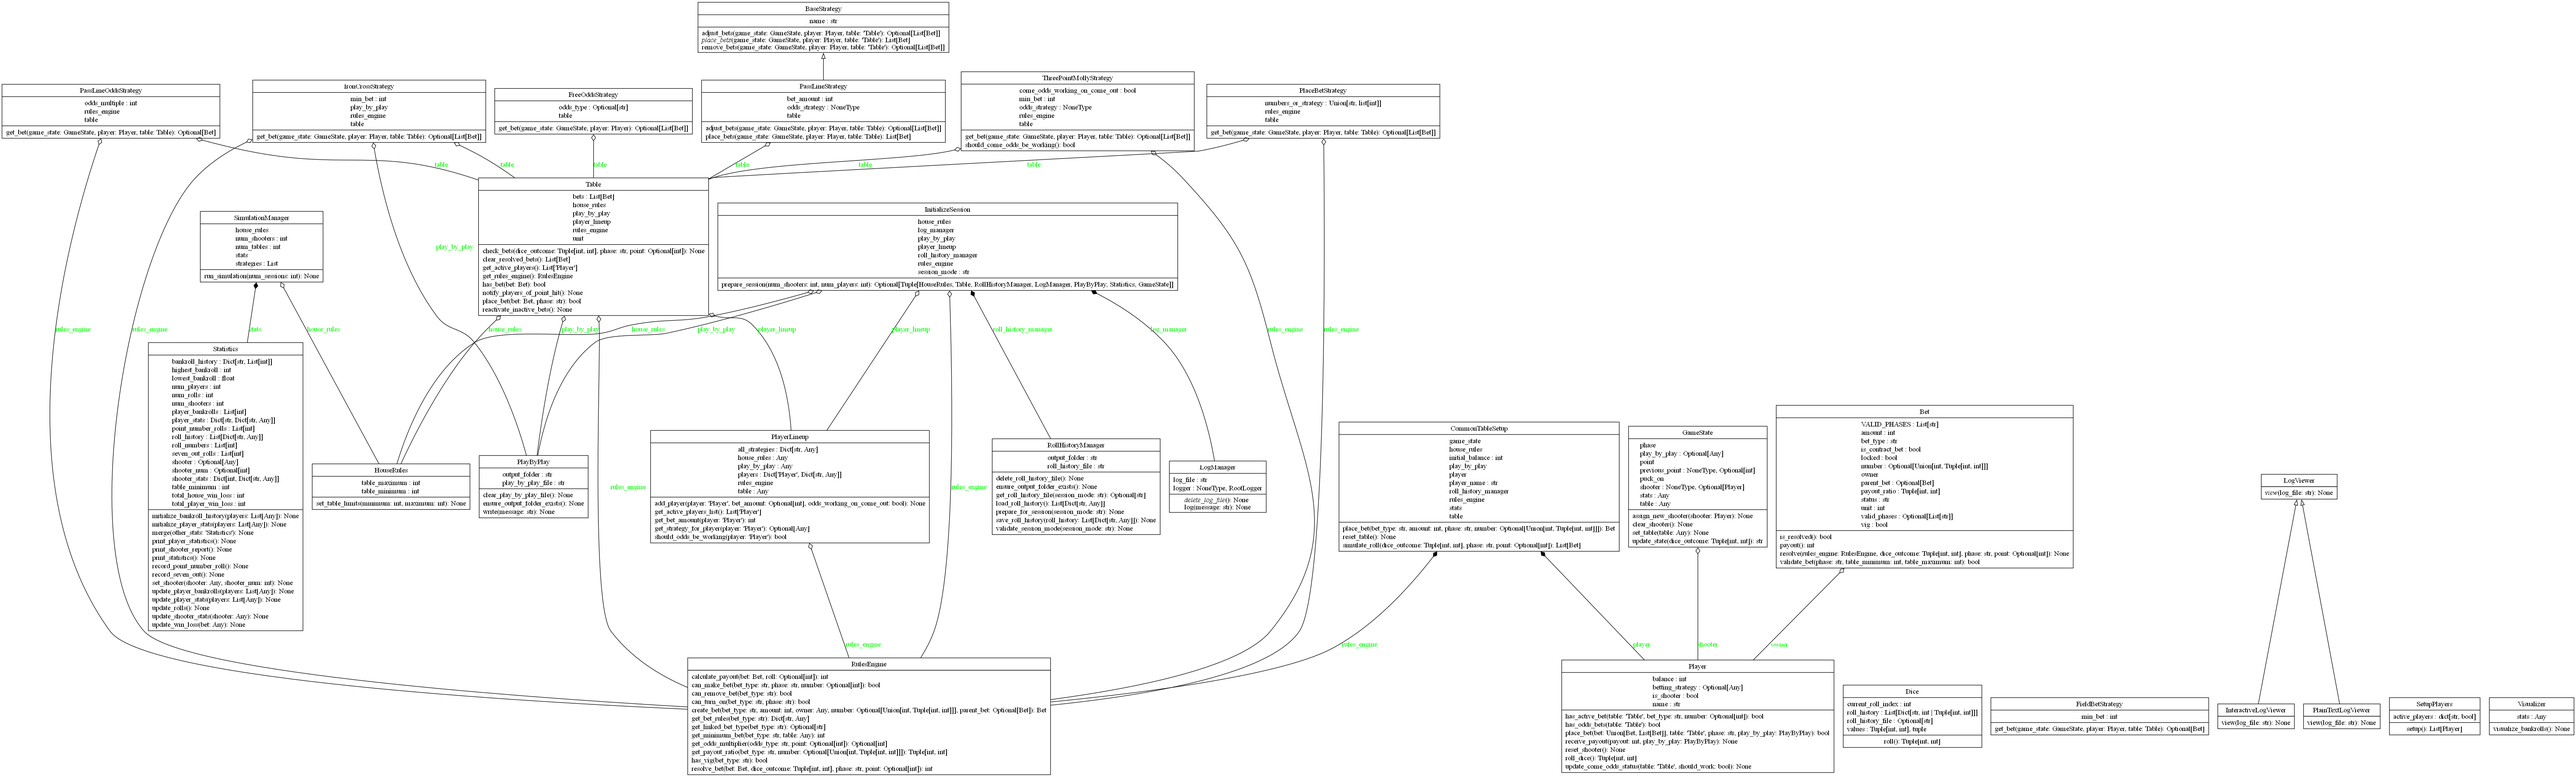
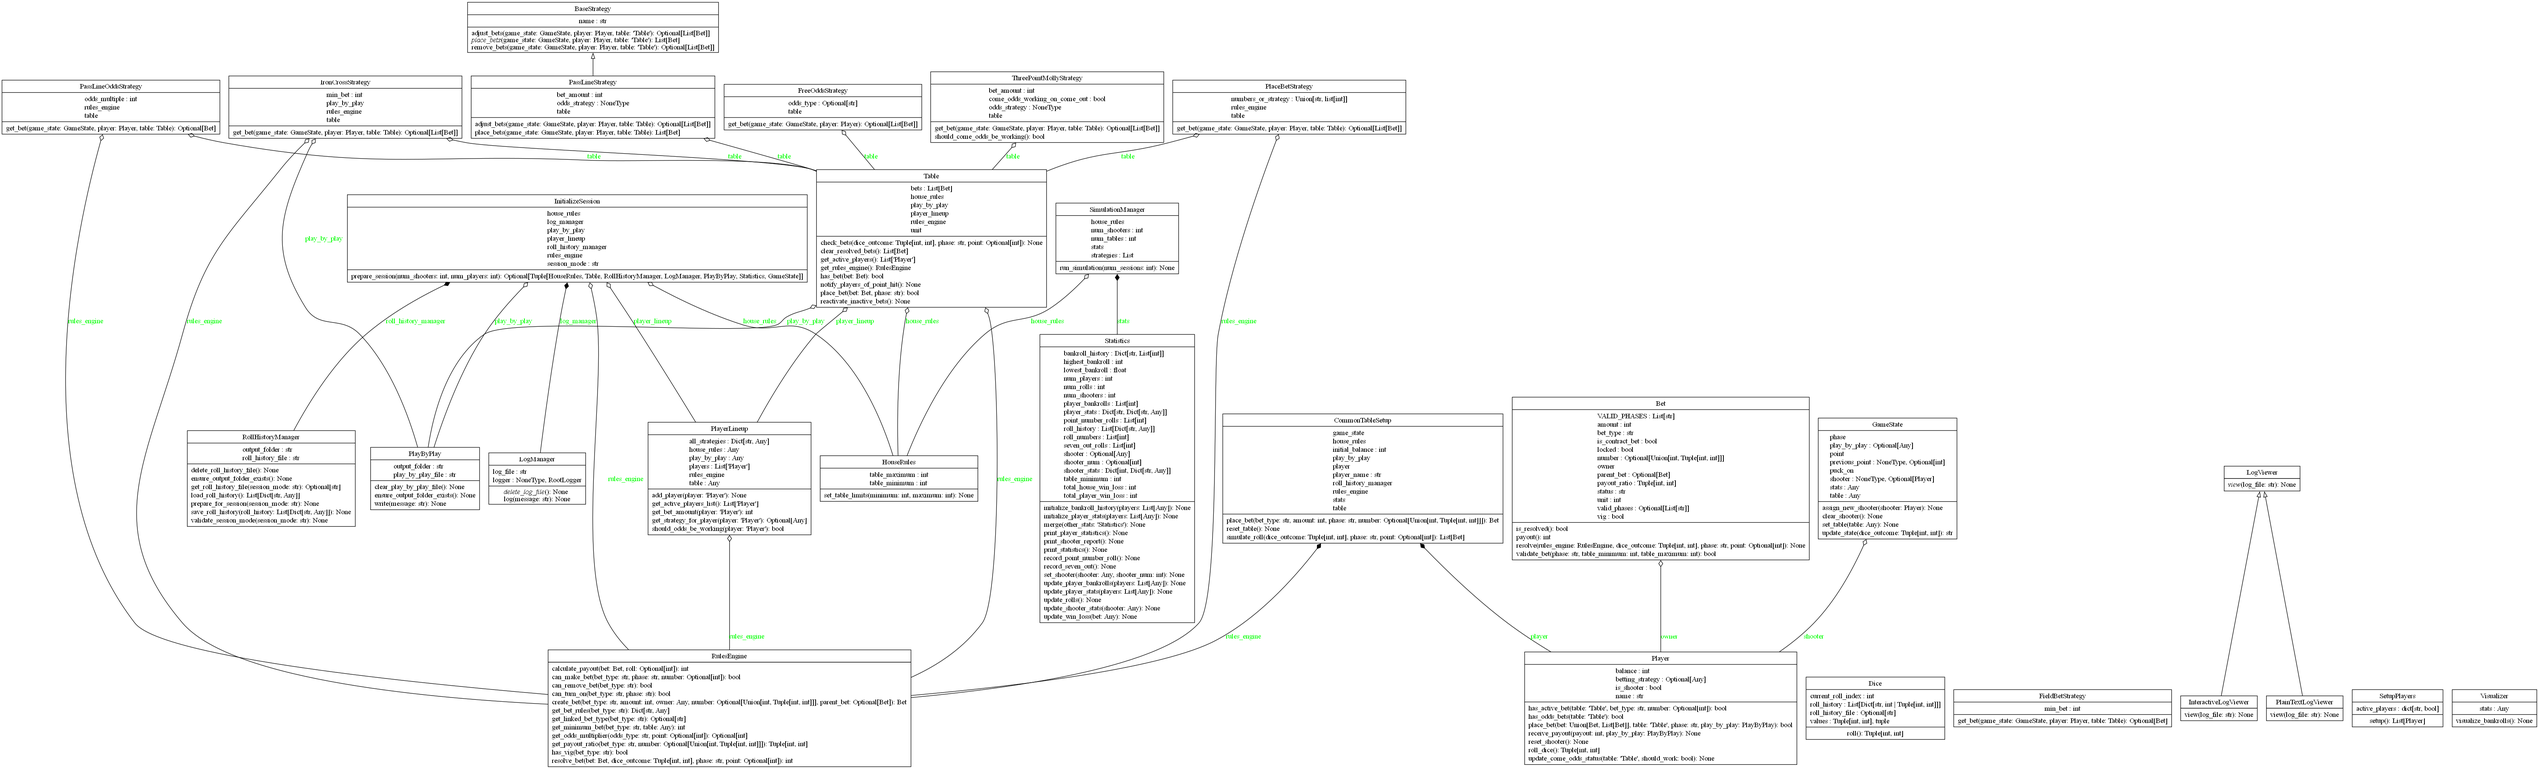
Clean - working on test_strategies (PassLine)

diff --git a/tests/test_strategies.py b/tests/test_strategies.py
@@ -1,0 +1,97 @@
+import unittest
+from craps.rules_engine import RulesEngine
+from craps.table import Table
+from craps.play_by_play import PlayByPlay
+from craps.house_rules import HouseRules
+from craps.lineup import PlayerLineup
+from craps.player import Player
+from craps.game_state import GameState
+from craps.strategies.pass_line_strategy import PassLineStrategy
+from craps.strategies.three_point_molly_strategy import ThreePointMollyStrategy
+
+class TestStrategies(unittest.TestCase):
+    """Tests for betting strategies like Pass Line and Three-Point Molly."""
+
+    def setUp(self):
+        """Set up common test environment for all strategies."""
+        self.rules_engine = RulesEngine()
+        self.play_by_play = PlayByPlay()
+        self.house_rules = HouseRules({"table_minimum": 10, "table_maximum": 5000})
+        self.player_lineup = PlayerLineup(self.house_rules, None, self.play_by_play, self.rules_engine)  # Table is None for now
+        self.table = Table(self.house_rules, self.play_by_play, self.rules_engine, self.player_lineup)
+        self.game_state = GameState()
+        self.game_state.set_table(self.table)
+        self.player = Player(name="TestPlayer", initial_balance=1000)
+
+    def test_pass_line_base_bet(self):
+        """Test placing a Pass Line bet with no odds."""
+        strategy = PassLineStrategy(bet_amount=10, table=self.table)  # No odds
+        bets = strategy.place_bets(self.game_state, self.player, self.table)
+
+        self.assertEqual(len(bets), 1)
+        self.assertEqual(bets[0].bet_type, "Pass Line")
+        self.assertEqual(bets[0].amount, 10)
+
+    def test_pass_line_with_odds(self):
+        """Test placing a Pass Line bet with different odds types."""
+        odds_types = ["1x", "2x", "3x-4x-5x", "10x"]
+
+        for odds_type in odds_types:
+            with self.subTest(odds_type=odds_type):
+                strategy = PassLineStrategy(bet_amount=10, table=self.table, odds_type=odds_type)
+                self.game_state.phase = "come-out"
+                bets = strategy.place_bets(self.game_state, self.player, self.table)
+
+                self.assertEqual(len(bets), 1)
+                self.assertEqual(bets[0].bet_type, "Pass Line")
+                self.assertEqual(bets[0].amount, 10)
+
+                # Simulate point established
+                self.game_state.phase = "point"
+                self.game_state.point = 6  # Test different point numbers
+
+                odds_bets = strategy.adjust_bets(self.game_state, self.player, self.table)
+
+                self.assertIsNotNone(odds_bets)
+                self.assertEqual(len(odds_bets), 1)
+                self.assertEqual(odds_bets[0].bet_type, "Pass Line Odds")
+
+                multiplier = self.rules_engine.get_odds_multiplier("Pass Line", self.game_state.point)
+                expected_odds_amount = 10 * multiplier
+                self.assertEqual(odds_bets[0].amount, expected_odds_amount)
+
+    def test_three_point_molly(self):
+        """Test Three-Point Molly strategy placing bets correctly."""
+        strategy = ThreePointMollyStrategy(table=self.table, rules_engine=self.rules_engine, player_lineup=self.player_lineup, odds_type="3x-4x-5x")
+
+        self.game_state.phase = "come-out"
+        bets = strategy.get_bet(self.game_state, self.player, self.table)
+
+        self.assertEqual(len(bets), 1)
+        self.assertEqual(bets[0].bet_type, "Pass Line")
+
+        # Simulate point established
+        self.game_state.phase = "point"
+        self.game_state.point = 6
+
+        bets = strategy.get_bet(self.game_state, self.player, self.table)
+        self.assertEqual(len(bets), 2)  # One Pass Line + One Come
+
+        # Simulate a Come bet moving to a number
+        self.table.bets.append(self.rules_engine.create_bet("Come", 10, self.player, number=4))
+
+        bets = strategy.get_bet(self.game_state, self.player, self.table)
+        self.assertEqual(len(bets), 3)  # Pass Line, Come, and another Come bet
+
+    def test_come_odds_working_toggle(self):
+        """Test that the strategy correctly toggles come odds working state."""
+        strategy = ThreePointMollyStrategy(table=self.table, rules_engine=self.rules_engine, player_lineup=self.player_lineup, odds_type="3x-4x-5x")
+
+        self.assertFalse(strategy.should_come_odds_be_working(self.player))
+
+        # Simulate enabling come odds working
+        self.player_lineup.set_odds_working(self.player, True)
+        self.assertTrue(strategy.should_come_odds_be_working(self.player))
+
+if __name__ == "__main__":
+    unittest.main()

diff --git a/craps/lineup.py b/craps/lineup.py
@@ -26,8 +26,8 @@ class PlayerLineup:
         self.play_by_play = play_by_play
         self.rules_engine = rules_engine
 
-        # ✅ Store actual Player instances and their configurations
-        self.players: Dict["Player", Dict[str, Any]] = {}
+        # ✅ Store actual Player instances
+        self.players: List["Player"] = []
 
         # Define all supported strategies
         self.all_strategies: Dict[str, Any] = {
@@ -44,35 +44,39 @@ class PlayerLineup:
                 table=self.table, min_bet=self.house_rules.table_minimum, play_by_play=self.play_by_play, rules_engine=self.rules_engine
             ),
             "3-Point Molly": ThreePointMollyStrategy(
-                table=self.table, min_bet=self.house_rules.table_minimum, odds_type="3x-4x-5x", rules_engine=self.rules_engine
-            )
+                table=self.table,  # ✅ Pass `table` first
+                bet_amount=self.house_rules.table_minimum,  # ✅ Correct order
+                odds_type="3x-4x-5x"
+            ),
         }
 
-    def add_player(self, player: "Player", bet_amount: Optional[int] = None, odds_working_on_come_out: bool = False) -> None:
-        """
-        Adds a Player instance to the lineup with custom bet settings.
-
-        :param player: The Player instance to add.
-        :param bet_amount: Custom bet amount (default: None = table minimum).
-        :param odds_working_on_come_out: Whether Come/Place/Lay Odds stay ON during come-out.
-        """
-        self.players[player] = {
-            "bet_amount": bet_amount or self.house_rules.table_minimum,  # Default to table min
-            "odds_working_on_come_out": odds_working_on_come_out
-        }
+    def add_player(self, player: "Player") -> None:
+        """Adds a Player instance to the lineup."""
+        self.players.append(player)
 
     def get_active_players_list(self) -> List["Player"]:
         """Retrieve a list of active player objects."""
-        return list(self.players.keys())  # ✅ Return actual Player instances
+        return self.players  # ✅ Return actual Player instances
     
     def get_strategy_for_player(self, player: "Player") -> Optional[Any]:
         """Retrieve the strategy for a given player."""
         return player.betting_strategy if player in self.players else None
-    
-    def get_bet_amount(self, player: "Player") -> int:
-        """Retrieve the bet amount for a given player."""
-        return self.players.get(player, {}).get("bet_amount", self.house_rules.table_minimum)
 
     def should_odds_be_working(self, player: "Player") -> bool:
-        """Check if this player's odds bets should stay ON during the come-out roll."""
-        return self.players.get(player, {}).get("odds_working_on_come_out", False)
+        """
+        Determine if the player's strategy wants Come/Place/Lay odds working on a come-out roll.
+        """
+        strategy = self.get_strategy_for_player(player)
+        if strategy and hasattr(strategy, "should_come_odds_be_working"):
+            return strategy.should_come_odds_be_working()
+        return False
+
+    def get_bet_amount(self, player: "Player") -> int:
+        """
+        Retrieve the bet amount for a given player.
+        Defaults to the house table minimum if not explicitly set.
+        """
+        strategy = self.get_strategy_for_player(player)
+        if strategy and hasattr(strategy, "bet_amount"):
+            return strategy.bet_amount
+        return self.house_rules.table_minimum  # ✅ Default to table min

diff --git a/craps/strategies/three_point_molly_strategy.py b/craps/strategies/three_point_molly_strategy.py
@@ -12,20 +12,18 @@ if TYPE_CHECKING:
 class ThreePointMollyStrategy:
     """Betting strategy for the 3-Point Molly system."""
 
-    def __init__(self, table: Table, rules_engine: RulesEngine, min_bet: int, odds_type: Optional[str] = None, come_odds_working_on_come_out: bool = False) -> None:
+    def __init__(self, table: Table, bet_amount: int, odds_type: Optional[str] = None, come_odds_working_on_come_out: bool = False) -> None:
         """
         Initialize the 3-Point Molly strategy.
 
         :param table: The table object to determine minimum bets.
-        :param rules_engine: The RulesEngine instance from the table.
-        :param min_bet: The minimum bet amount for the table.
+        :param bet_amount: The bet amount for the strategy (defaults to table minimum).
         :param odds_type: The type of odds to use (e.g., "3x-4x-5x").
         :param come_odds_working_on_come_out: Whether Come odds bets are working during the come-out roll.
         """
         self.table = table
-        self.rules_engine = rules_engine  # Use existing RulesEngine
-        self.min_bet = min_bet
-        self.odds_strategy = FreeOddsStrategy(table, odds_type) if odds_type else None  # Delegate odds to FreeOddsStrategy
+        self.bet_amount = bet_amount
+        self.odds_strategy = FreeOddsStrategy(table, odds_type) if odds_type else None
         self.come_odds_working_on_come_out = come_odds_working_on_come_out
 
     def get_bet(self, game_state: GameState, player: Player, table: Table) -> Optional[List[Bet]]:
@@ -38,17 +36,18 @@ class ThreePointMollyStrategy:
         :return: A list of bets to place, or None if no bets are placed.
         """
         bets: List[Bet] = []
+        rules_engine = table.rules_engine  # ✅ Fix: Access `rules_engine` via table
 
         # Place a Pass Line bet if no active Pass Line bet exists (only during come-out phase)
         if game_state.phase == "come-out":
-            if not any(bet.bet_type == "Pass Line" for bet in table.bets if bet.owner == player):
-                bets.append(self.rules_engine.create_bet("Pass Line", self.min_bet, player))
+            if not player.has_active_bet(table, "Pass Line"):  # ✅ Fix: Pass table
+                bets.append(rules_engine.create_bet("Pass Line", self.bet_amount, player))  # ✅ Use bet_amount
 
         # Place up to 3 Come bets if fewer than 3 active Come bets exist (only during point phase)
         if game_state.phase == "point":
             active_come_bets = [bet for bet in table.bets if bet.bet_type == "Come" and bet.owner == player]
             if len(active_come_bets) < 3:
-                bets.append(self.rules_engine.create_bet("Come", self.min_bet, player))
+                bets.append(rules_engine.create_bet("Come", self.bet_amount, player))  # ✅ Use bet_amount
 
         # Place odds on active Pass Line and Come bets using FreeOddsStrategy
         if self.odds_strategy and game_state.phase == "point":
